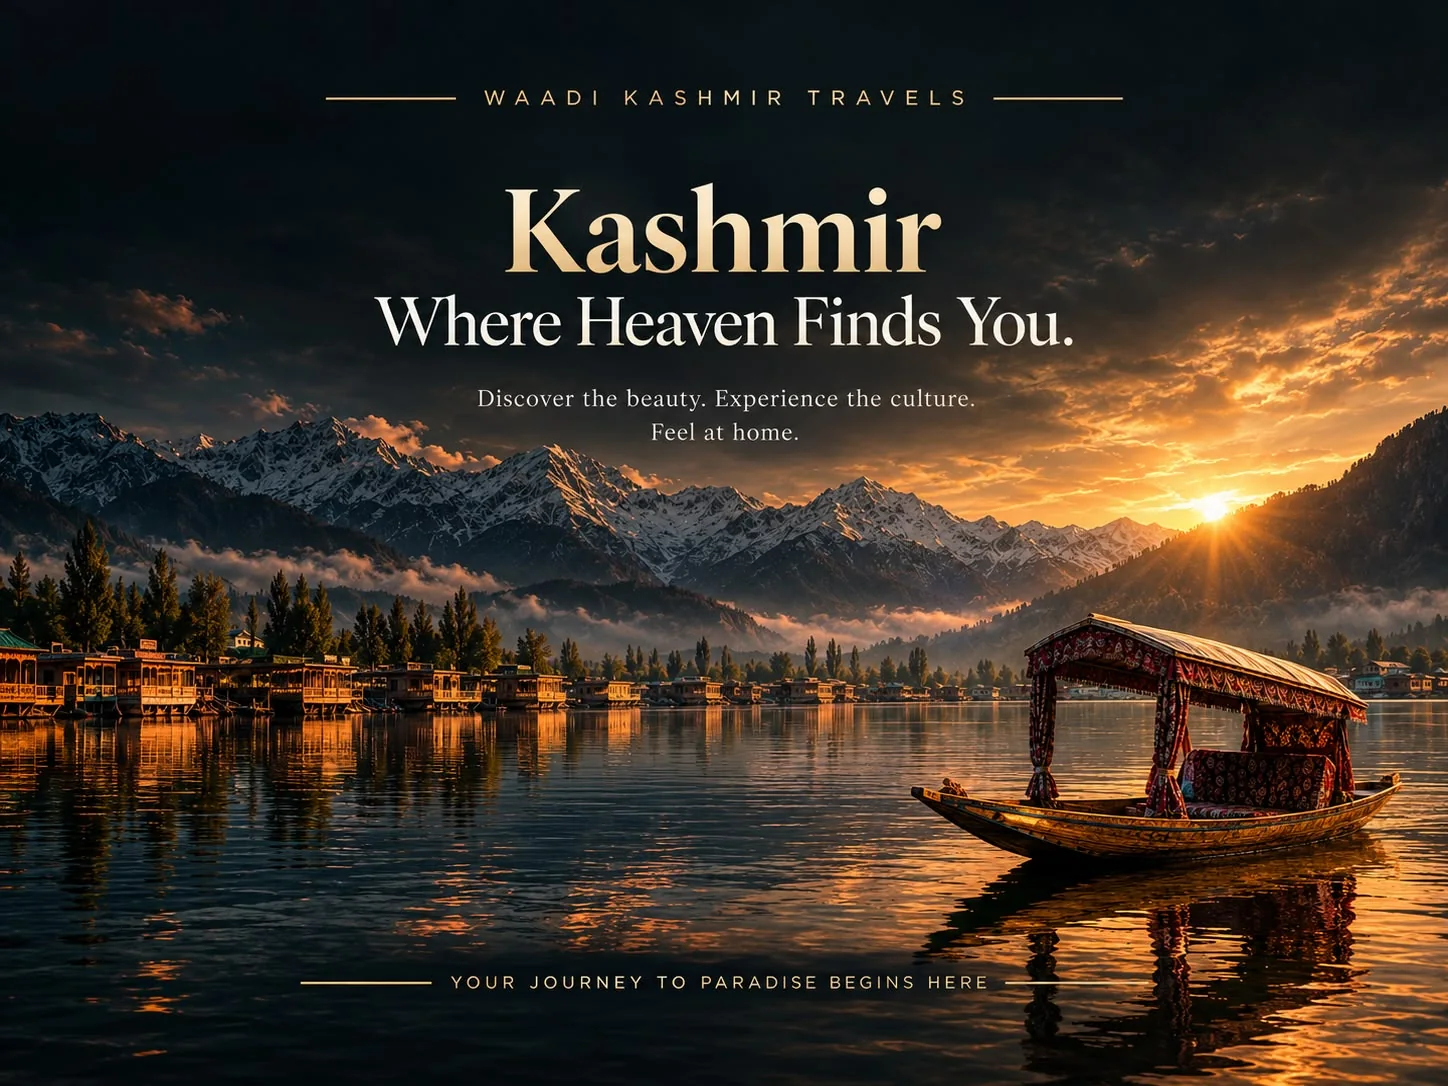
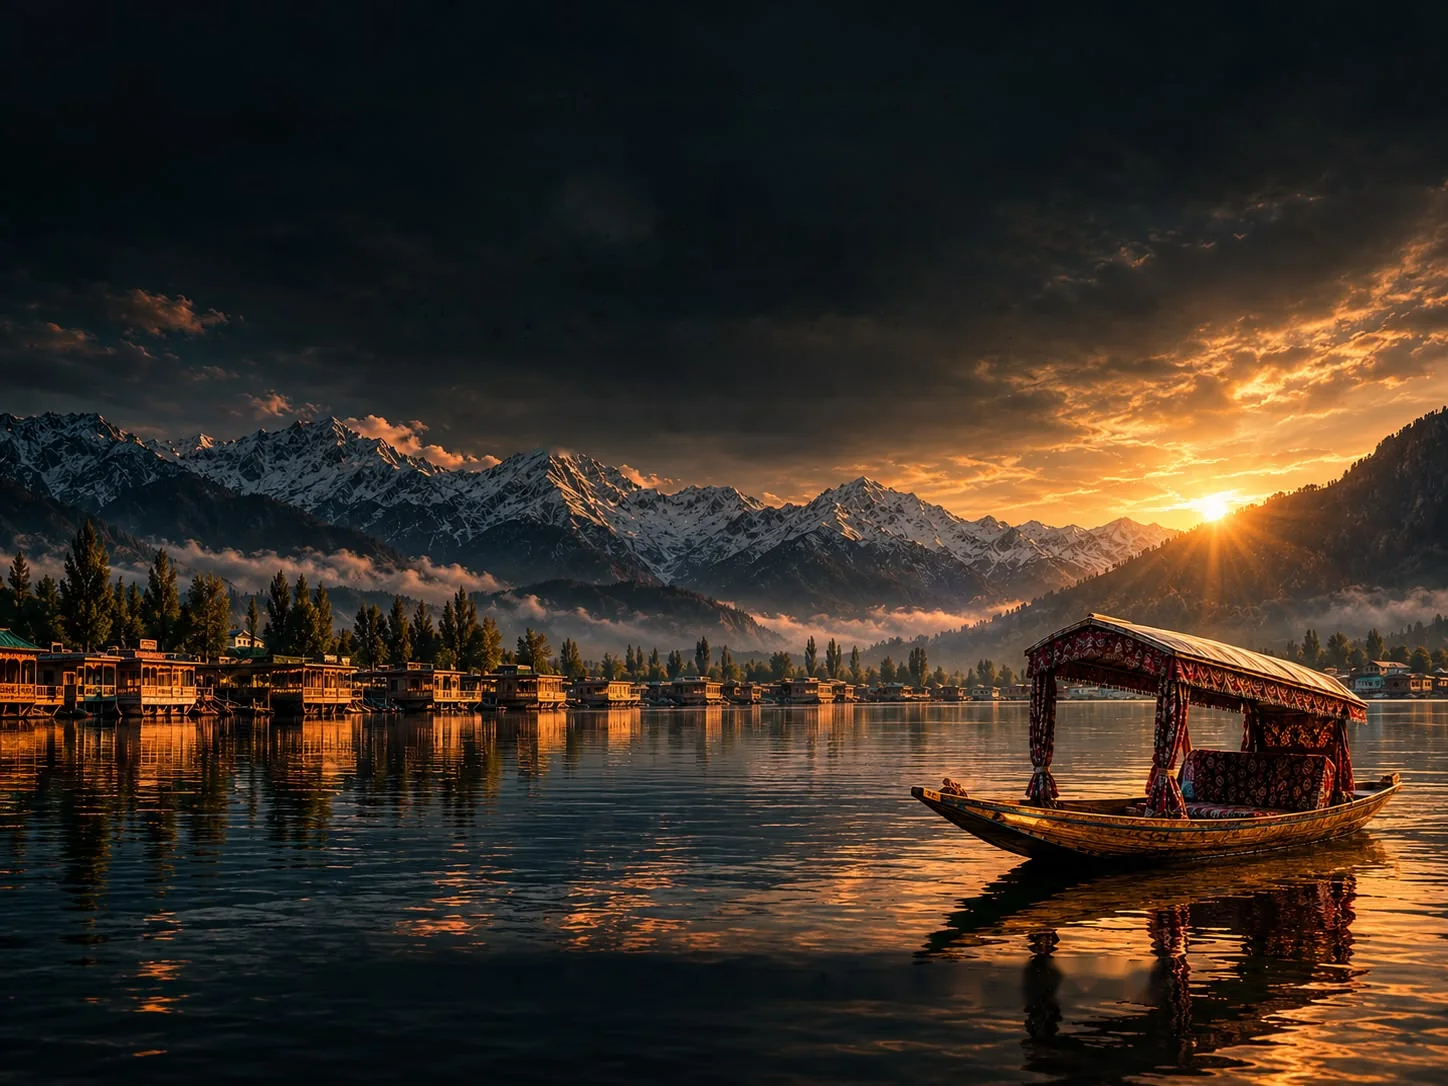
Welcome screen: live text over a clean Dal Lake photo
The wording was baked into the image; it is now real text (sharper on
phones, readable by search engines, editable) over the same photo with the
old lettering removed, cropped to fill the screen at any size.

diff --git a/static/css/site.css b/static/css/site.css
@@ -941,15 +941,38 @@ a.ws-contact-row:hover { border-color: var(--violet); }
 
 /* ---------- Welcome screen (home page, first view per session) ---------- */
 .ws-welcome-open, .ws-welcome-open body { overflow: hidden; }
-.ws-welcome { position: fixed; inset: 0; z-index: 200; display: grid; place-items: center; overflow: hidden; background: #060409; cursor: pointer; transition: opacity .9s ease, visibility .9s; }
+.ws-welcome { position: fixed; inset: 0; z-index: 200; display: flex; flex-direction: column; align-items: center; overflow: hidden; background: #060409; color: #fff; text-align: center; cursor: pointer; transition: opacity .9s ease, visibility .9s; }
 .ws-welcome.is-leaving { opacity: 0; visibility: hidden; pointer-events: none; }
-.ws-welcome-fill { position: absolute; inset: -40px; width: calc(100% + 80px); height: calc(100% + 80px); object-fit: cover; filter: blur(28px) brightness(.45) saturate(1.2); }
-.ws-welcome-art { position: absolute; inset: 0; width: 100%; height: 100%; object-fit: contain; animation: wsWelcomeZoom 5s ease-out both; }
-.ws-welcome-enter { position: absolute; top: 1.4rem; right: 1.4rem; display: inline-flex; align-items: center; gap: .45rem; min-height: 44px; padding: .6rem 1.2rem; border: 1px solid rgba(227,200,143,.6); border-radius: 99px; background: rgba(6,4,9,.45); color: var(--gold-2); font: 700 .78rem/1 var(--display); letter-spacing: .18em; text-transform: uppercase; cursor: pointer; backdrop-filter: blur(6px); transition: background .2s, color .2s; }
+.ws-welcome-photo { position: absolute; inset: 0; width: 100%; height: 100%; object-fit: cover; object-position: 72% 38%; animation: wsWelcomeZoom 6s ease-out both; }
+.ws-welcome::before { content: ""; position: absolute; inset: 0; z-index: 1; background: linear-gradient(180deg, rgba(6,4,9,.72) 0%, rgba(6,4,9,.35) 38%, transparent 60%, rgba(6,4,9,.55) 100%); }
+.ws-welcome > :not(img) { position: relative; z-index: 2; }
+.ws-welcome-text { margin-top: clamp(3.5rem, 9vh, 6rem); padding: 0 1.2rem; }
+.ws-welcome-brand, .ws-welcome-foot { display: flex; align-items: center; justify-content: center; gap: clamp(.8rem, 2.4vw, 2rem); color: var(--gold-2); font: 500 clamp(.68rem, 1.3vw, .95rem)/1.4 var(--body); letter-spacing: .42em; text-transform: uppercase; }
+.ws-welcome-brand span, .ws-welcome-foot span { width: clamp(36px, 9vw, 130px); height: 1px; background: linear-gradient(90deg, transparent, var(--gold)); }
+.ws-welcome-brand span:last-child, .ws-welcome-foot span:last-child { background: linear-gradient(90deg, var(--gold), transparent); }
+.ws-welcome-title { margin-top: clamp(1.4rem, 5vh, 3rem); background: linear-gradient(180deg, #fff3d6 10%, #e3c88f 55%, #b8904a 100%); -webkit-background-clip: text; background-clip: text; color: transparent; font: 600 clamp(3.6rem, 10vw, 7.6rem)/.95 var(--serif); letter-spacing: -.01em; text-shadow: 0 10px 40px rgba(0,0,0,.25); }
+.ws-welcome-sub { margin-top: .3rem; font: 500 clamp(1.7rem, 4.4vw, 3.6rem)/1.1 var(--serif); letter-spacing: -.01em; text-shadow: 0 4px 24px rgba(0,0,0,.5); }
+.ws-welcome-lead { margin-top: clamp(1rem, 3vh, 1.8rem); color: rgba(255,255,255,.88); font: 400 clamp(.95rem, 1.6vw, 1.2rem)/1.6 var(--serif); letter-spacing: .03em; text-shadow: 0 2px 14px rgba(0,0,0,.6); }
+.ws-welcome-lead span, .ws-welcome-foot { white-space: nowrap; }
+.ws-welcome-text > * { animation: wsRise 1s ease both; }
+.ws-welcome-title { animation-delay: .15s; }
+.ws-welcome-sub { animation-delay: .35s; }
+.ws-welcome-lead { animation-delay: .55s; }
+.ws-welcome-foot { position: absolute !important; left: 0; right: 0; bottom: clamp(1.8rem, 6vh, 3.4rem); padding: 0 1rem; font-size: clamp(.6rem, 1.1vw, .82rem); letter-spacing: .32em; animation: wsRise 1s .8s ease both; }
+.ws-welcome-enter { position: absolute !important; top: 1.4rem; right: 1.4rem; display: inline-flex; align-items: center; gap: .45rem; min-height: 44px; padding: .6rem 1.2rem; border: 1px solid rgba(227,200,143,.6); border-radius: 99px; background: rgba(6,4,9,.45); color: var(--gold-2); font: 700 .78rem/1 var(--display); letter-spacing: .18em; text-transform: uppercase; cursor: pointer; backdrop-filter: blur(6px); transition: background .2s, color .2s; }
 .ws-welcome-enter:hover, .ws-welcome-enter:focus-visible { background: var(--gold); color: var(--ink); }
-.ws-welcome-bar { position: absolute; left: 0; right: 0; bottom: 0; height: 3px; background: rgba(255,255,255,.08); }
+.ws-welcome-bar { position: absolute !important; left: 0; right: 0; bottom: 0; height: 3px; background: rgba(255,255,255,.08); }
 .ws-welcome-bar i { display: block; height: 100%; background: linear-gradient(90deg, var(--gold-ink), var(--gold-2)); transform-origin: left; animation: wsWelcomeBar 4.5s linear both; }
-@keyframes wsWelcomeZoom { from { transform: scale(1.06); opacity: 0; } 18% { opacity: 1; } to { transform: scale(1); opacity: 1; } }
+@keyframes wsWelcomeZoom { from { transform: scale(1.08); } to { transform: scale(1); } }
 @keyframes wsWelcomeBar { from { transform: scaleX(0); } to { transform: scaleX(1); } }
-@media (max-width: 760px) { .ws-welcome-enter { top: auto; right: 50%; bottom: 2rem; transform: translateX(50%); } }
-@media (prefers-reduced-motion: reduce) { .ws-welcome-art, .ws-welcome-bar i { animation: none; } .ws-welcome { transition: none; } }
+@media (max-width: 760px) {
+  .ws-welcome-text { margin-top: 18vh; }
+  .ws-welcome-brand { letter-spacing: .3em; }
+  .ws-welcome-foot { bottom: 6.5rem; letter-spacing: .22em; }
+  .ws-welcome-photo { object-position: 72% 60%; }
+  .ws-welcome-foot { font-size: .56rem; }
+  .ws-welcome-foot span { width: 18px; }
+  .ws-welcome-lead { font-size: .92rem; }
+  .ws-welcome-enter { top: auto; right: 50%; bottom: 2rem; transform: translateX(50%); }
+}
+@media (prefers-reduced-motion: reduce) { .ws-welcome-photo, .ws-welcome-bar i, .ws-welcome-text > *, .ws-welcome-foot { animation: none; } .ws-welcome { transition: none; } }

diff --git a/templates/site.html b/templates/site.html
@@ -34,8 +34,14 @@
   <body class="ws{% block body_class %}{% endblock %}">
     {% if request.path == '/' %}
     <div class="ws-welcome" id="welcome" role="dialog" aria-modal="true" aria-label="Welcome to Waadi Kashmir Travels">
-      <img class="ws-welcome-fill" src="{{ url_for('static', filename='images/welcome-kashmir.webp') }}" alt="" aria-hidden="true">
-      <img class="ws-welcome-art" src="{{ url_for('static', filename='images/welcome-kashmir.webp') }}" alt="Waadi Kashmir Travels — Kashmir, where heaven finds you. Discover the beauty. Experience the culture. Feel at home." fetchpriority="high">
+      <img class="ws-welcome-photo" src="{{ url_for('static', filename='images/welcome-kashmir.webp') }}" alt="" fetchpriority="high">
+      <div class="ws-welcome-text">
+        <p class="ws-welcome-brand"><span></span>Waadi Kashmir Travels<span></span></p>
+        <p class="ws-welcome-title">Kashmir</p>
+        <p class="ws-welcome-sub">Where Heaven Finds You.</p>
+        <p class="ws-welcome-lead"><span>Discover the beauty.</span> <span>Experience the culture.</span><br><span>Feel at home.</span></p>
+      </div>
+      <p class="ws-welcome-foot"><span></span>Your journey to paradise begins here<span></span></p>
       <button type="button" class="ws-welcome-enter" data-welcome-close>Enter <span aria-hidden="true">›</span></button>
       <span class="ws-welcome-bar" aria-hidden="true"><i></i></span>
     </div>
